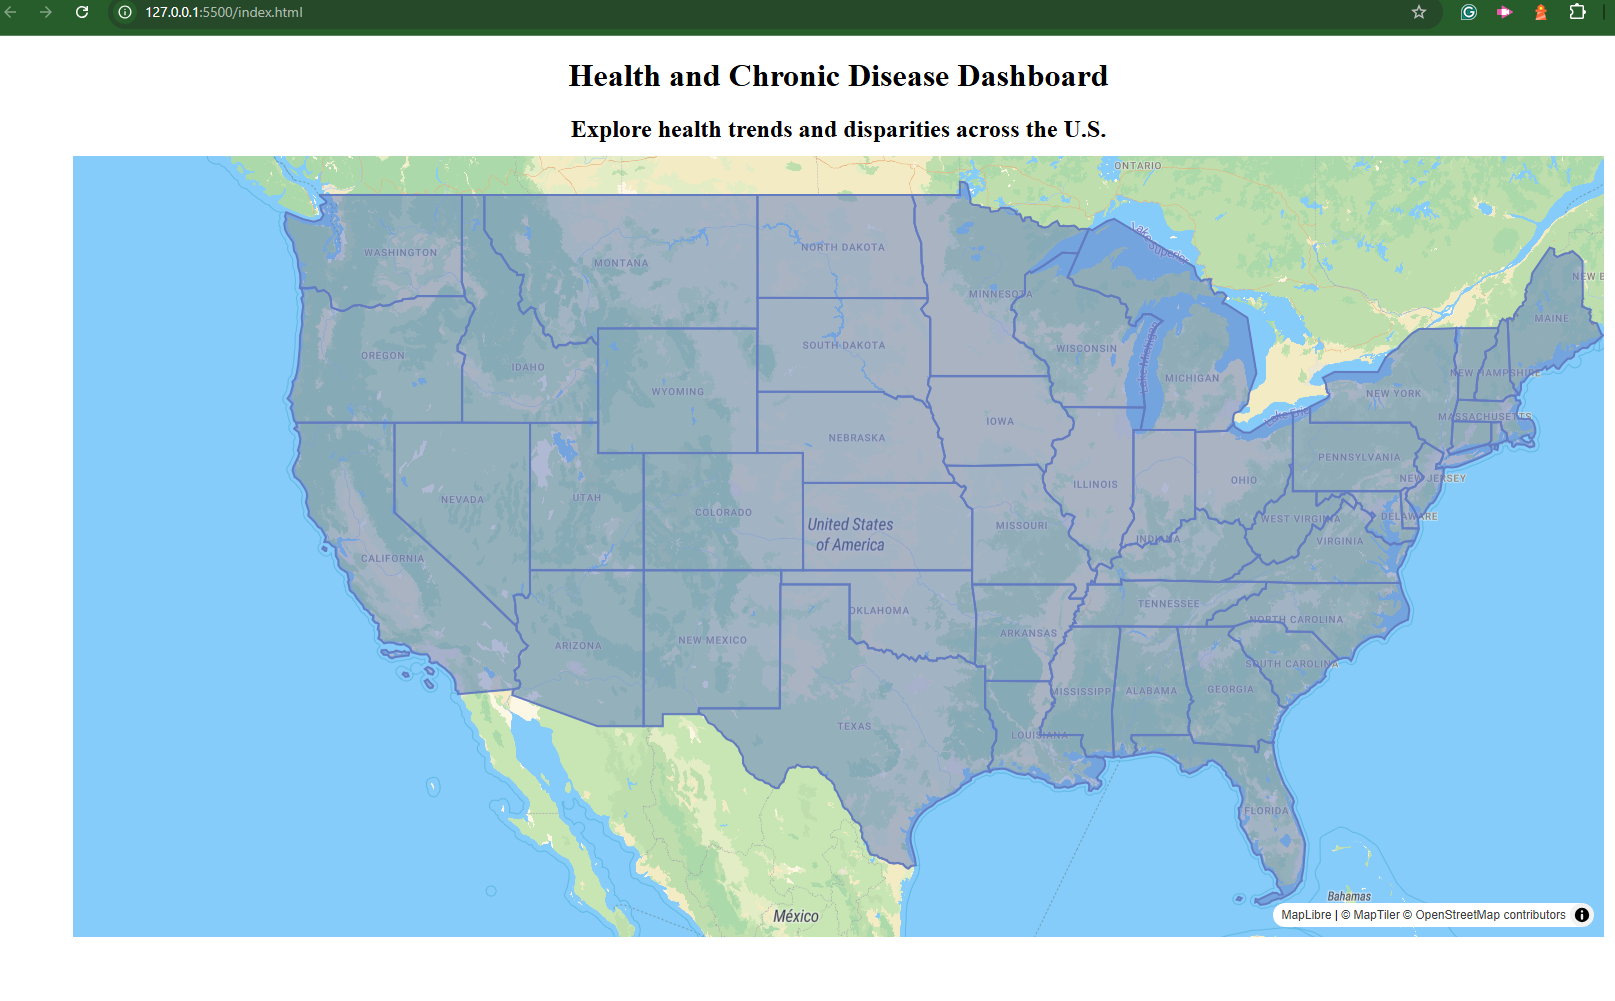
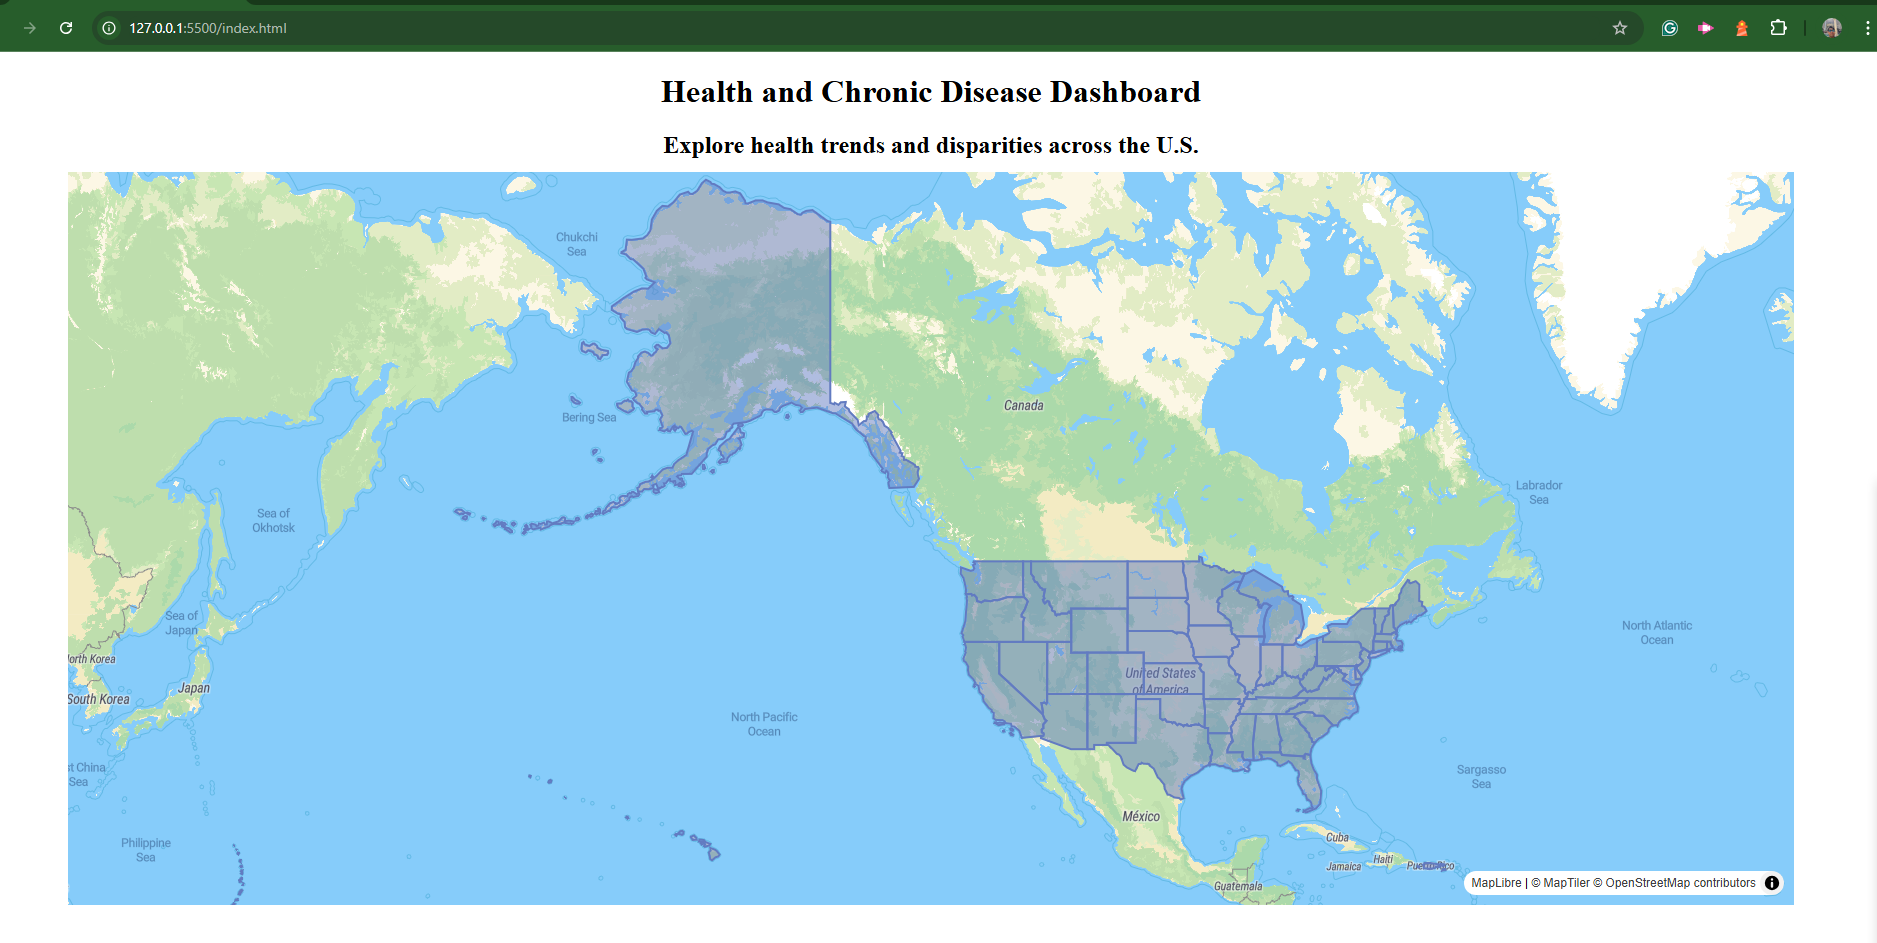
added second html page on resources folder

diff --git a/Resources/maps.js b/Resources/maps.js
@@ -4,8 +4,8 @@ const map = new maplibregl.Map({
         container: 'map',
         style:
             'https://api.maptiler.com/maps/streets/style.json?key=get_your_own_OpIi9ZULNHzrESv6T2vL',
-        center: [-100.486052, 37.830348],
-        zoom: 4
+            center: [-128.486052, 50.830348],
+            zoom: 2.5
     });
     let hoveredStateId = null;
 
